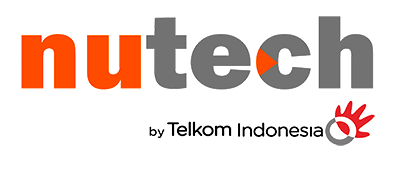
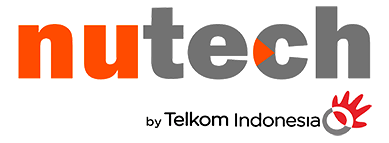
Add five more Indonesian accounts to the Automation wall
Altera Cipta Teknologi, Asyst, Corra, Dhoho Airport and Nutech take
the wall from seventeen to twenty-two, alphabetically. Drawn area
still spans 85 to 160, so they sit level with what was there.

The four PNGs are cropped to their mark with the same 4.5% margin as
the rest, and capped at 900px on the long edge -- Asyst arrived
5906px wide for a mark that draws at 147px. All four keep their alpha
rather than being flattened onto white, since the wall section is
white anyway and transparency survives a future change of background.

Named from the artwork where it differs from the request: kediri.png
is the mark for Dhoho Airport, Kediri's airport, so the cell reads
Dhoho Airport.

Altera is left uncropped, as Jalantol was. It is a WebP, which the
imaging here cannot decode, and at 98% fill it draws 7% larger than
its neighbours rather than smaller.

Stamped ?v=4.

Changed region(s): [[0.2159, 0.028, 0.9563, 0.5594], [0.3702, 0.5874, 0.9563, 0.951], [0.0308, 0.1678, 0.3702, 0.5594]]

diff --git a/automation/index.html b/automation/index.html
@@ -185,23 +185,28 @@
   <div class="chead reveal"><span class="kick">Customer base</span></div>
   <div class="wrap">
     <div class="wall">
-        <div class="w t1 reveal"><img src="../photos/customers/brinks.png?v=3" alt="Brink&rsquo;s" loading="lazy" onerror="this.style.display='none';var s=this.nextElementSibling;if(s)s.style.display='block'" /><span class="nm" style="display:none">Brink&rsquo;s</span></div>
-        <div class="w t1 reveal"><img src="../photos/customers/citi-link.png?v=3" alt="Citilink" loading="lazy" onerror="this.style.display='none';var s=this.nextElementSibling;if(s)s.style.display='block'" /><span class="nm" style="display:none">Citilink</span></div>
-        <div class="w t1 sq reveal"><img src="../photos/customers/cmlj.png?v=3" alt="Citra Marga Lintas Jabar" loading="lazy" onerror="this.style.display='none';var s=this.nextElementSibling;if(s)s.style.display='block'" /><span class="nm" style="display:none">Citra Marga Lintas Jabar</span></div>
-        <div class="w t1 sq reveal"><img src="../photos/customers/cmnp.png?v=3" alt="Citra Marga Nusaphala Persada" loading="lazy" onerror="this.style.display='none';var s=this.nextElementSibling;if(s)s.style.display='block'" /><span class="nm" style="display:none">Citra Marga Nusaphala Persada</span></div>
-        <div class="w t1 reveal"><img src="../photos/customers/garuda.png?v=3" alt="Garuda Indonesia" loading="lazy" onerror="this.style.display='none';var s=this.nextElementSibling;if(s)s.style.display='block'" /><span class="nm" style="display:none">Garuda Indonesia</span></div>
-        <div class="w t1 sq reveal"><img src="../photos/customers/hutama-karya.png?v=3" alt="Hutama Karya" loading="lazy" onerror="this.style.display='none';var s=this.nextElementSibling;if(s)s.style.display='block'" /><span class="nm" style="display:none">Hutama Karya</span></div>
-        <div class="w t1 reveal"><img src="../photos/customers/bali-airport.png?v=3" alt="I Gusti Ngurah Rai International Airport" loading="lazy" onerror="this.style.display='none';var s=this.nextElementSibling;if(s)s.style.display='block'" /><span class="nm" style="display:none">I Gusti Ngurah Rai International Airport</span></div>
-        <div class="w t1 sq reveal"><img src="../photos/customers/jlj.webp?v=3" alt="Jalantol Lingkarluar Jakarta" loading="lazy" onerror="this.style.display='none';var s=this.nextElementSibling;if(s)s.style.display='block'" /><span class="nm" style="display:none">Jalantol Lingkarluar Jakarta</span></div>
-        <div class="w t1 reveal"><img src="../photos/customers/jasamarga.png?v=3" alt="Jasa Marga" loading="lazy" onerror="this.style.display='none';var s=this.nextElementSibling;if(s)s.style.display='block'" /><span class="nm" style="display:none">Jasa Marga</span></div>
-        <div class="w t1 sq reveal"><img src="../photos/customers/jasamarga-op.png?v=3" alt="Jasamarga Tollroad Operator" loading="lazy" onerror="this.style.display='none';var s=this.nextElementSibling;if(s)s.style.display='block'" /><span class="nm" style="display:none">Jasamarga Tollroad Operator</span></div>
-        <div class="w t1 reveal"><img src="../photos/customers/surabaya-airport.png?v=3" alt="Juanda International Airport" loading="lazy" onerror="this.style.display='none';var s=this.nextElementSibling;if(s)s.style.display='block'" /><span class="nm" style="display:none">Juanda International Airport</span></div>
-        <div class="w t1 sq reveal"><img src="../photos/customers/mtn.png?v=3" alt="Marga Trans Nusantara" loading="lazy" onerror="this.style.display='none';var s=this.nextElementSibling;if(s)s.style.display='block'" /><span class="nm" style="display:none">Marga Trans Nusantara</span></div>
-        <div class="w t1 reveal"><img src="../photos/customers/mco-jaya.png?v=3" alt="MCO Jaya" loading="lazy" onerror="this.style.display='none';var s=this.nextElementSibling;if(s)s.style.display='block'" /><span class="nm" style="display:none">MCO Jaya</span></div>
-        <div class="w t1 reveal"><img src="../photos/customers/pbtr.png?v=3" alt="Pemalang Batang Tol Road" loading="lazy" onerror="this.style.display='none';var s=this.nextElementSibling;if(s)s.style.display='block'" /><span class="nm" style="display:none">Pemalang Batang Tol Road</span></div>
-        <div class="w t1 sq reveal"><img src="../photos/customers/pt-murni.png?v=3" alt="PT Murni" loading="lazy" onerror="this.style.display='none';var s=this.nextElementSibling;if(s)s.style.display='block'" /><span class="nm" style="display:none">PT Murni</span></div>
-        <div class="w t1 mid reveal"><img src="../photos/customers/sita.svg?v=3" alt="SITA" loading="lazy" onerror="this.style.display='none';var s=this.nextElementSibling;if(s)s.style.display='block'" /><span class="nm" style="display:none">SITA</span></div>
-        <div class="w t1 mid reveal"><img src="../photos/customers/soekarno-hatta.png?v=3" alt="Soekarno-Hatta International Airport" loading="lazy" onerror="this.style.display='none';var s=this.nextElementSibling;if(s)s.style.display='block'" /><span class="nm" style="display:none">Soekarno-Hatta International Airport</span></div>
+        <div class="w t1 mid reveal"><img src="../photos/customers/altera.webp?v=4" alt="Altera Cipta Teknologi" loading="lazy" onerror="this.style.display='none';var s=this.nextElementSibling;if(s)s.style.display='block'" /><span class="nm" style="display:none">Altera Cipta Teknologi</span></div>
+        <div class="w t1 mid reveal"><img src="../photos/customers/asyst.png?v=4" alt="Asyst" loading="lazy" onerror="this.style.display='none';var s=this.nextElementSibling;if(s)s.style.display='block'" /><span class="nm" style="display:none">Asyst</span></div>
+        <div class="w t1 reveal"><img src="../photos/customers/brinks.png?v=4" alt="Brink&rsquo;s" loading="lazy" onerror="this.style.display='none';var s=this.nextElementSibling;if(s)s.style.display='block'" /><span class="nm" style="display:none">Brink&rsquo;s</span></div>
+        <div class="w t1 reveal"><img src="../photos/customers/citi-link.png?v=4" alt="Citilink" loading="lazy" onerror="this.style.display='none';var s=this.nextElementSibling;if(s)s.style.display='block'" /><span class="nm" style="display:none">Citilink</span></div>
+        <div class="w t1 sq reveal"><img src="../photos/customers/cmlj.png?v=4" alt="Citra Marga Lintas Jabar" loading="lazy" onerror="this.style.display='none';var s=this.nextElementSibling;if(s)s.style.display='block'" /><span class="nm" style="display:none">Citra Marga Lintas Jabar</span></div>
+        <div class="w t1 sq reveal"><img src="../photos/customers/cmnp.png?v=4" alt="Citra Marga Nusaphala Persada" loading="lazy" onerror="this.style.display='none';var s=this.nextElementSibling;if(s)s.style.display='block'" /><span class="nm" style="display:none">Citra Marga Nusaphala Persada</span></div>
+        <div class="w t1 mid reveal"><img src="../photos/customers/corra.png?v=4" alt="Corra" loading="lazy" onerror="this.style.display='none';var s=this.nextElementSibling;if(s)s.style.display='block'" /><span class="nm" style="display:none">Corra</span></div>
+        <div class="w t1 sq reveal"><img src="../photos/customers/kediri.png?v=4" alt="Dhoho Airport" loading="lazy" onerror="this.style.display='none';var s=this.nextElementSibling;if(s)s.style.display='block'" /><span class="nm" style="display:none">Dhoho Airport</span></div>
+        <div class="w t1 reveal"><img src="../photos/customers/garuda.png?v=4" alt="Garuda Indonesia" loading="lazy" onerror="this.style.display='none';var s=this.nextElementSibling;if(s)s.style.display='block'" /><span class="nm" style="display:none">Garuda Indonesia</span></div>
+        <div class="w t1 sq reveal"><img src="../photos/customers/hutama-karya.png?v=4" alt="Hutama Karya" loading="lazy" onerror="this.style.display='none';var s=this.nextElementSibling;if(s)s.style.display='block'" /><span class="nm" style="display:none">Hutama Karya</span></div>
+        <div class="w t1 reveal"><img src="../photos/customers/bali-airport.png?v=4" alt="I Gusti Ngurah Rai International Airport" loading="lazy" onerror="this.style.display='none';var s=this.nextElementSibling;if(s)s.style.display='block'" /><span class="nm" style="display:none">I Gusti Ngurah Rai International Airport</span></div>
+        <div class="w t1 sq reveal"><img src="../photos/customers/jlj.webp?v=4" alt="Jalantol Lingkarluar Jakarta" loading="lazy" onerror="this.style.display='none';var s=this.nextElementSibling;if(s)s.style.display='block'" /><span class="nm" style="display:none">Jalantol Lingkarluar Jakarta</span></div>
+        <div class="w t1 reveal"><img src="../photos/customers/jasamarga.png?v=4" alt="Jasa Marga" loading="lazy" onerror="this.style.display='none';var s=this.nextElementSibling;if(s)s.style.display='block'" /><span class="nm" style="display:none">Jasa Marga</span></div>
+        <div class="w t1 sq reveal"><img src="../photos/customers/jasamarga-op.png?v=4" alt="Jasamarga Tollroad Operator" loading="lazy" onerror="this.style.display='none';var s=this.nextElementSibling;if(s)s.style.display='block'" /><span class="nm" style="display:none">Jasamarga Tollroad Operator</span></div>
+        <div class="w t1 reveal"><img src="../photos/customers/surabaya-airport.png?v=4" alt="Juanda International Airport" loading="lazy" onerror="this.style.display='none';var s=this.nextElementSibling;if(s)s.style.display='block'" /><span class="nm" style="display:none">Juanda International Airport</span></div>
+        <div class="w t1 sq reveal"><img src="../photos/customers/mtn.png?v=4" alt="Marga Trans Nusantara" loading="lazy" onerror="this.style.display='none';var s=this.nextElementSibling;if(s)s.style.display='block'" /><span class="nm" style="display:none">Marga Trans Nusantara</span></div>
+        <div class="w t1 reveal"><img src="../photos/customers/mco-jaya.png?v=4" alt="MCO Jaya" loading="lazy" onerror="this.style.display='none';var s=this.nextElementSibling;if(s)s.style.display='block'" /><span class="nm" style="display:none">MCO Jaya</span></div>
+        <div class="w t1 mid reveal"><img src="../photos/customers/nutech.png?v=4" alt="Nutech" loading="lazy" onerror="this.style.display='none';var s=this.nextElementSibling;if(s)s.style.display='block'" /><span class="nm" style="display:none">Nutech</span></div>
+        <div class="w t1 reveal"><img src="../photos/customers/pbtr.png?v=4" alt="Pemalang Batang Tol Road" loading="lazy" onerror="this.style.display='none';var s=this.nextElementSibling;if(s)s.style.display='block'" /><span class="nm" style="display:none">Pemalang Batang Tol Road</span></div>
+        <div class="w t1 sq reveal"><img src="../photos/customers/pt-murni.png?v=4" alt="PT Murni" loading="lazy" onerror="this.style.display='none';var s=this.nextElementSibling;if(s)s.style.display='block'" /><span class="nm" style="display:none">PT Murni</span></div>
+        <div class="w t1 mid reveal"><img src="../photos/customers/sita.svg?v=4" alt="SITA" loading="lazy" onerror="this.style.display='none';var s=this.nextElementSibling;if(s)s.style.display='block'" /><span class="nm" style="display:none">SITA</span></div>
+        <div class="w t1 mid reveal"><img src="../photos/customers/soekarno-hatta.png?v=4" alt="Soekarno-Hatta International Airport" loading="lazy" onerror="this.style.display='none';var s=this.nextElementSibling;if(s)s.style.display='block'" /><span class="nm" style="display:none">Soekarno-Hatta International Airport</span></div>
     </div>
   </div>
 </section>

diff --git a/assets/fire-fighting.css b/assets/fire-fighting.css
@@ -111,6 +111,11 @@ img{max-width:100%;display:block}
 .burger span{width:24px;height:2px;background:#fff;border-radius:2px}
 @media(max-width:860px){
   .top-right{display:none}.burger{display:flex}
+  /* The bars are white for a burger sitting in the dark navbar, but this
+     one sits in the white topbar, so it was white on white and read as
+     missing. site.css recolours its own burger the same way at this
+     width; this sheet loads after it and has to repeat it. */
+  .burger span{background:var(--navy-800)}
   .tabs{position:absolute;left:0;right:0;top:100%;flex-direction:column;background:var(--navy-800);transform:translateY(-12px);opacity:0;visibility:hidden;transition:.2s;box-shadow:0 24px 40px -24px rgba(0,0,0,.5)}
   .navbar .wrap{position:relative;justify-content:flex-end}
   .tabs.open{transform:translateY(0);opacity:1;visibility:visible}
